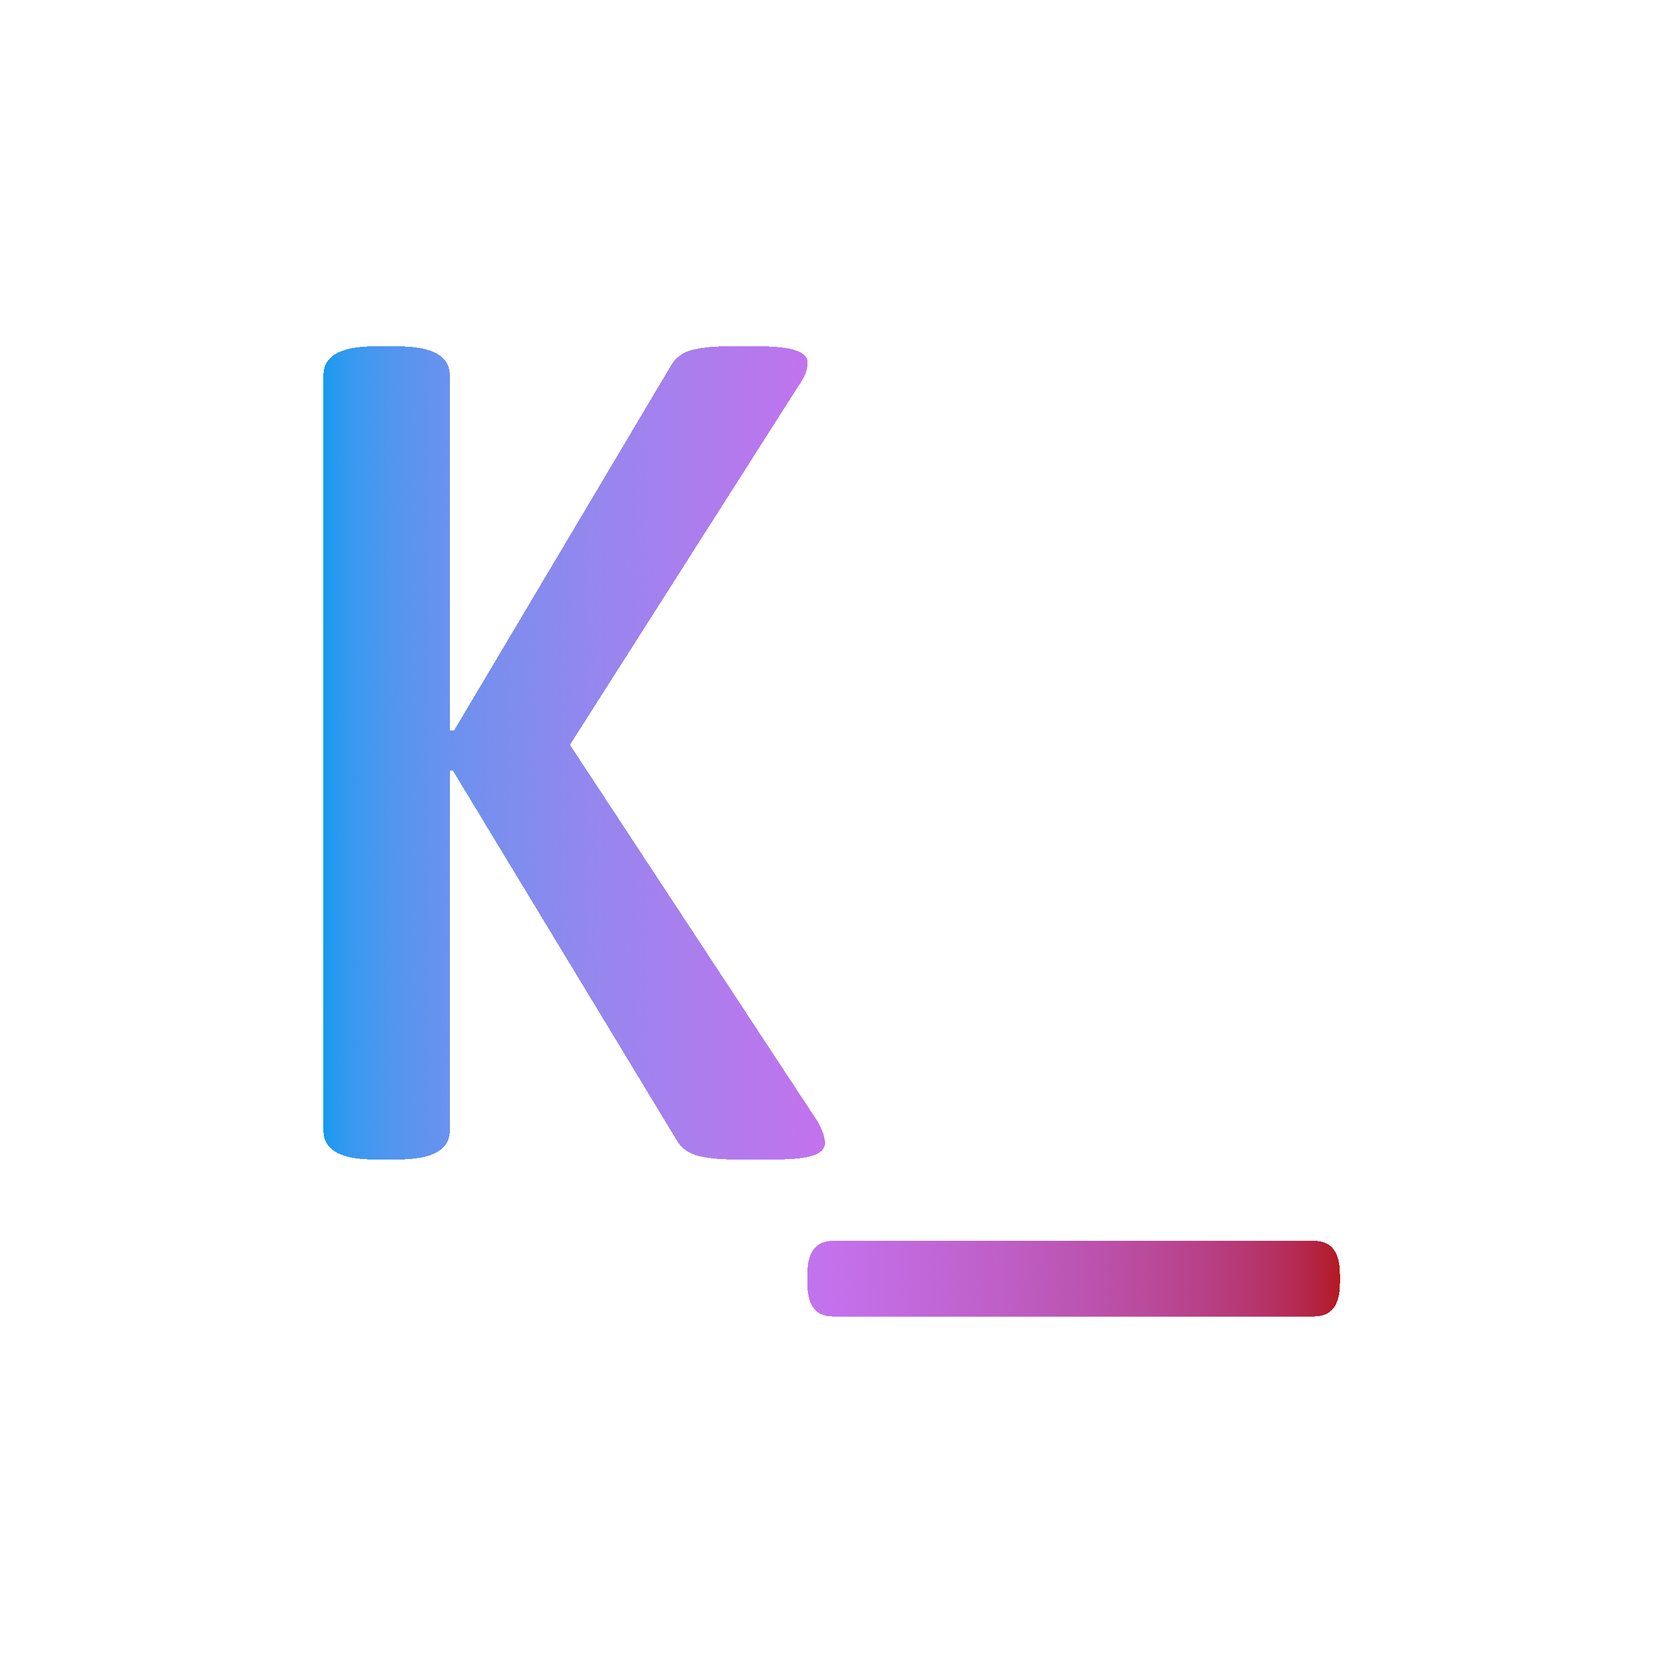
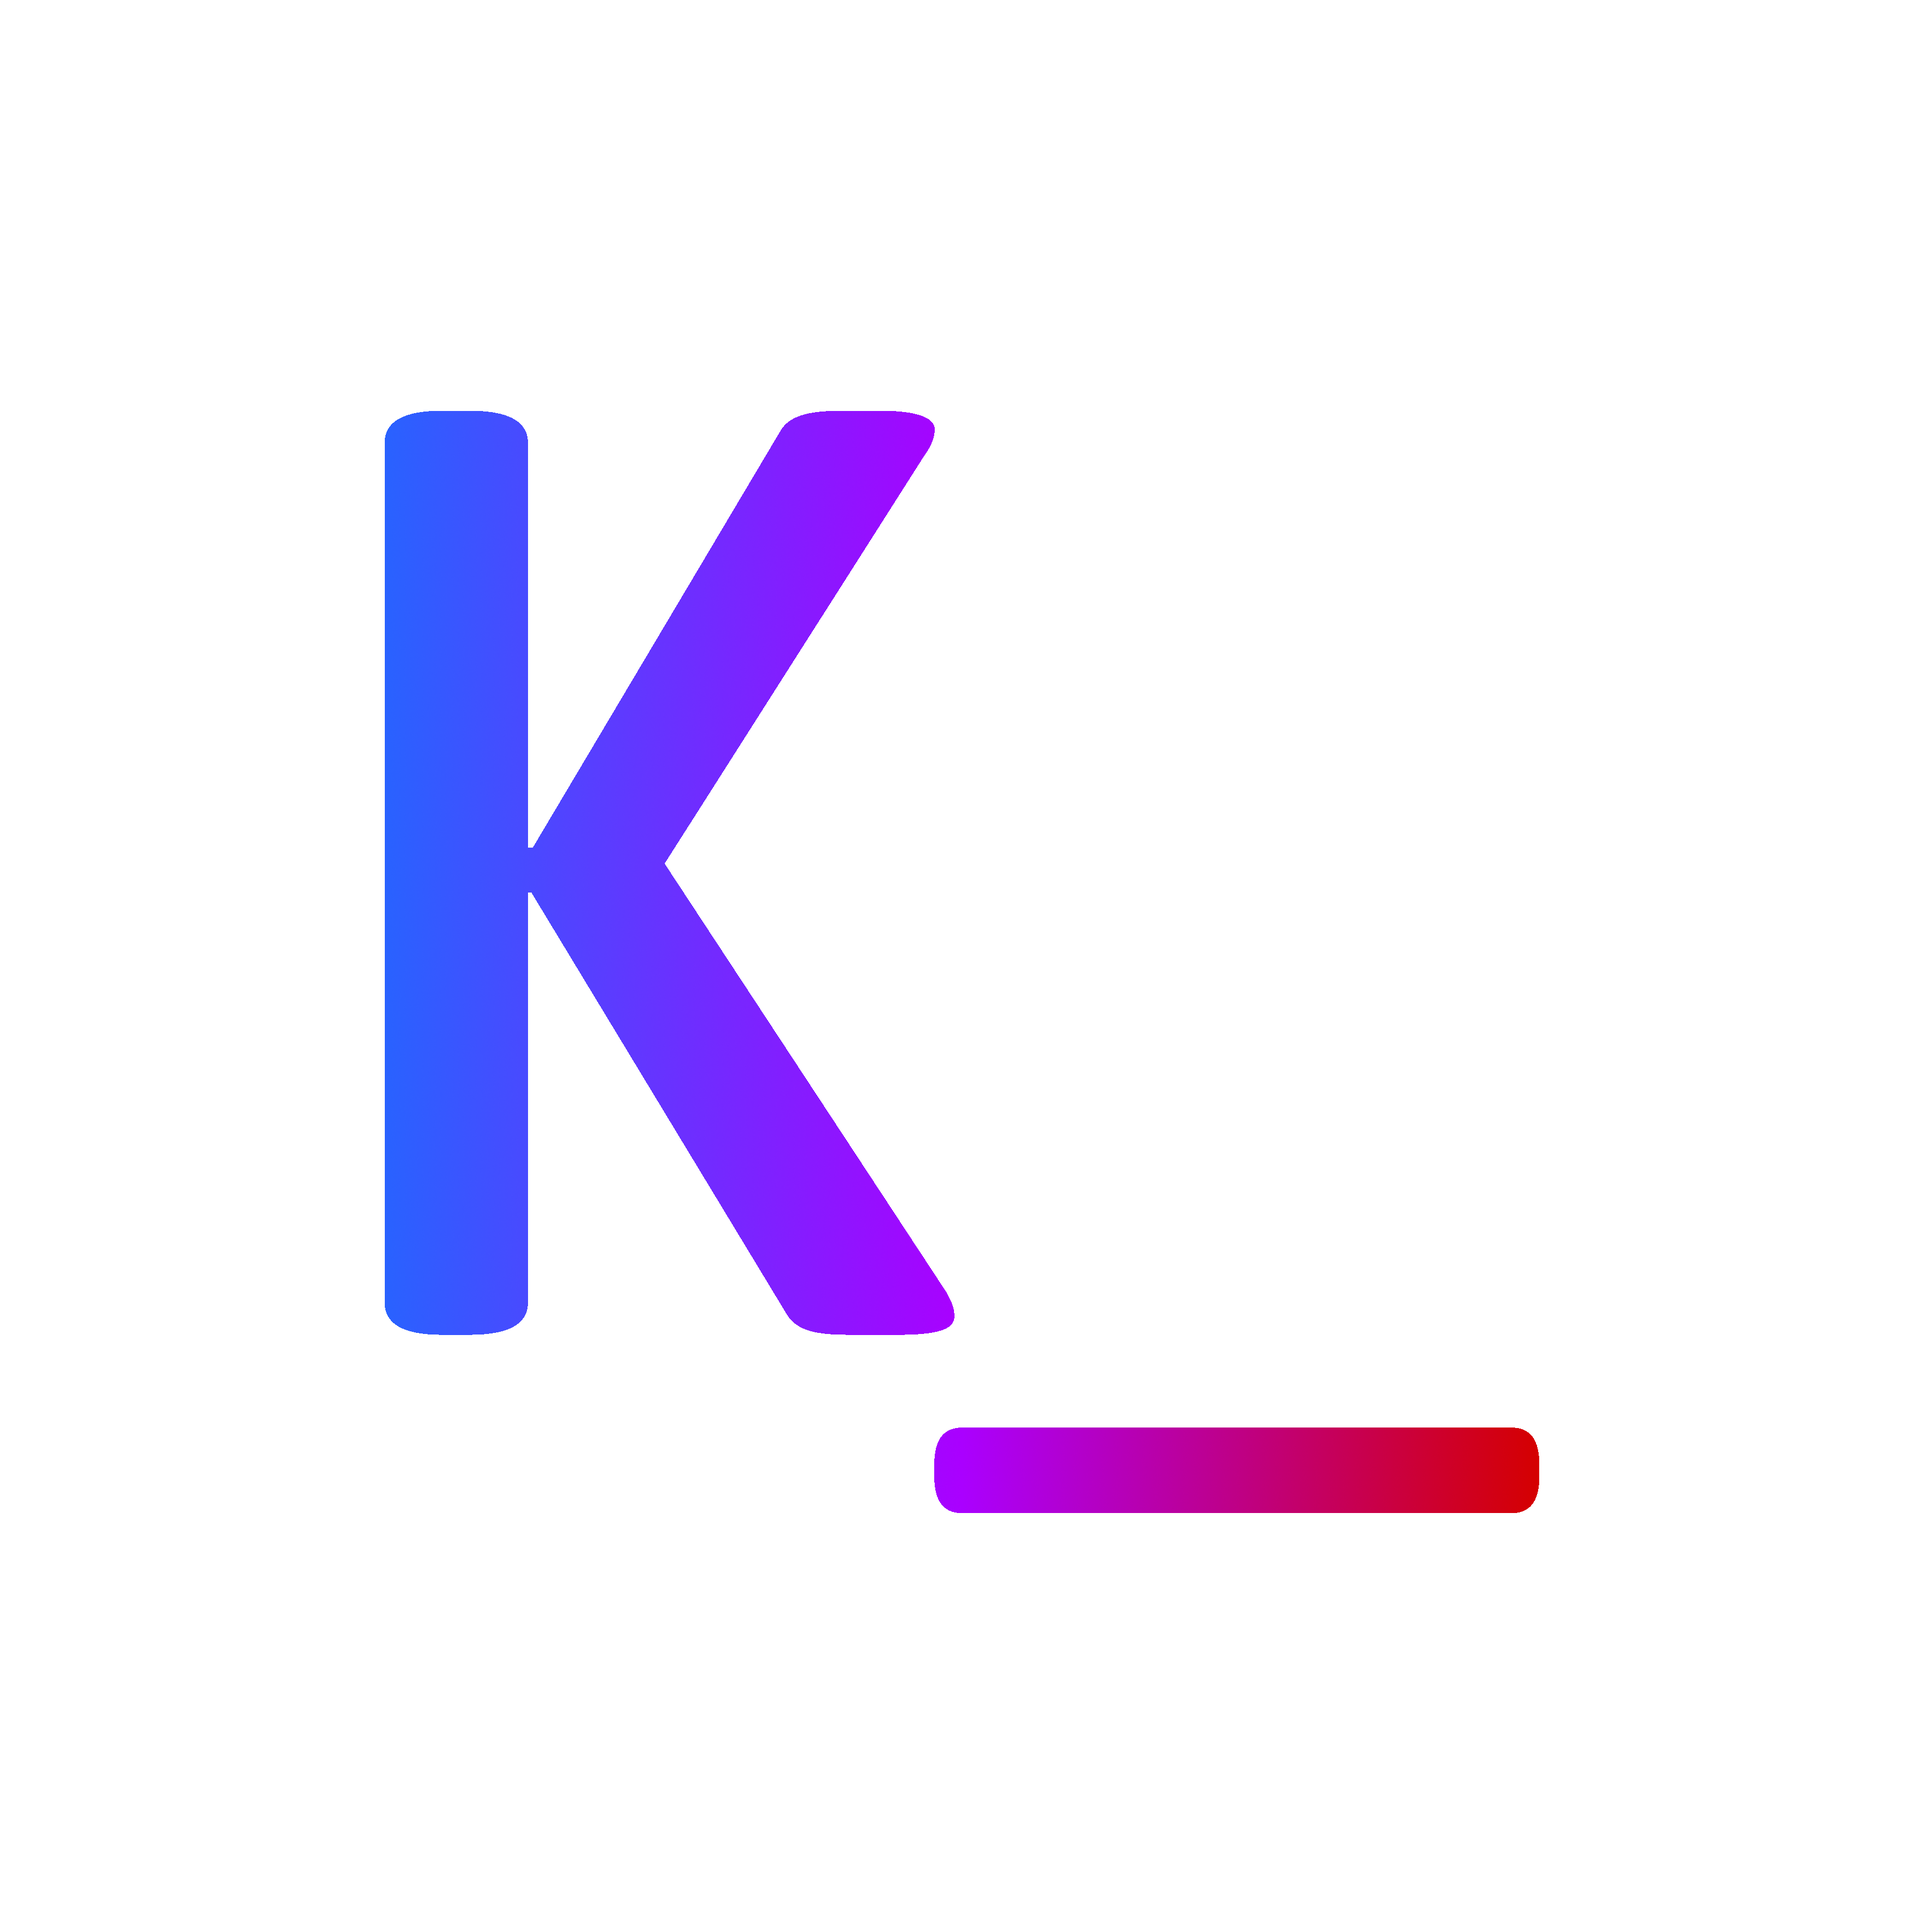
Update Accent Colors and Images

Changed region(s): [[0.1869, 0.1869, 0.4984, 0.7164], [0.4672, 0.7164, 0.8099, 0.8099]]

diff --git a/README.md b/README.md
@@ -8,11 +8,11 @@
 
 ---
 
-[![GitHub Stats](https://github-readme-stats.vercel.app/api?username=k4ustu3h&count_private=true&show_icons=true&title_color=b31818&text_color=fff&bg_color=000&icon_color=b31818&include_all_commits=true)](https://github.com/anuraghazra/github-readme-stats)
+[![GitHub Stats](https://github-readme-stats.vercel.app/api?username=k4ustu3h&count_private=true&show_icons=true&title_color=d50000&text_color=fff&bg_color=000&icon_color=b31818&include_all_commits=true)](https://github.com/anuraghazra/github-readme-stats)
 
 </br>
 
-[![Top Langs](https://github-readme-stats.vercel.app/api/top-langs/?username=k4ustu3h&count_private=true&title_color=b31818&text_color=fff&bg_color=000&icon_color=b31818&layout=compact)](https://github.com/anuraghazra/github-readme-stats)
+[![Top Langs](https://github-readme-stats.vercel.app/api/top-langs/?username=k4ustu3h&count_private=true&title_color=d50000&text_color=fff&bg_color=000&icon_color=b31818&layout=compact)](https://github.com/anuraghazra/github-readme-stats)
 
 ---
 
